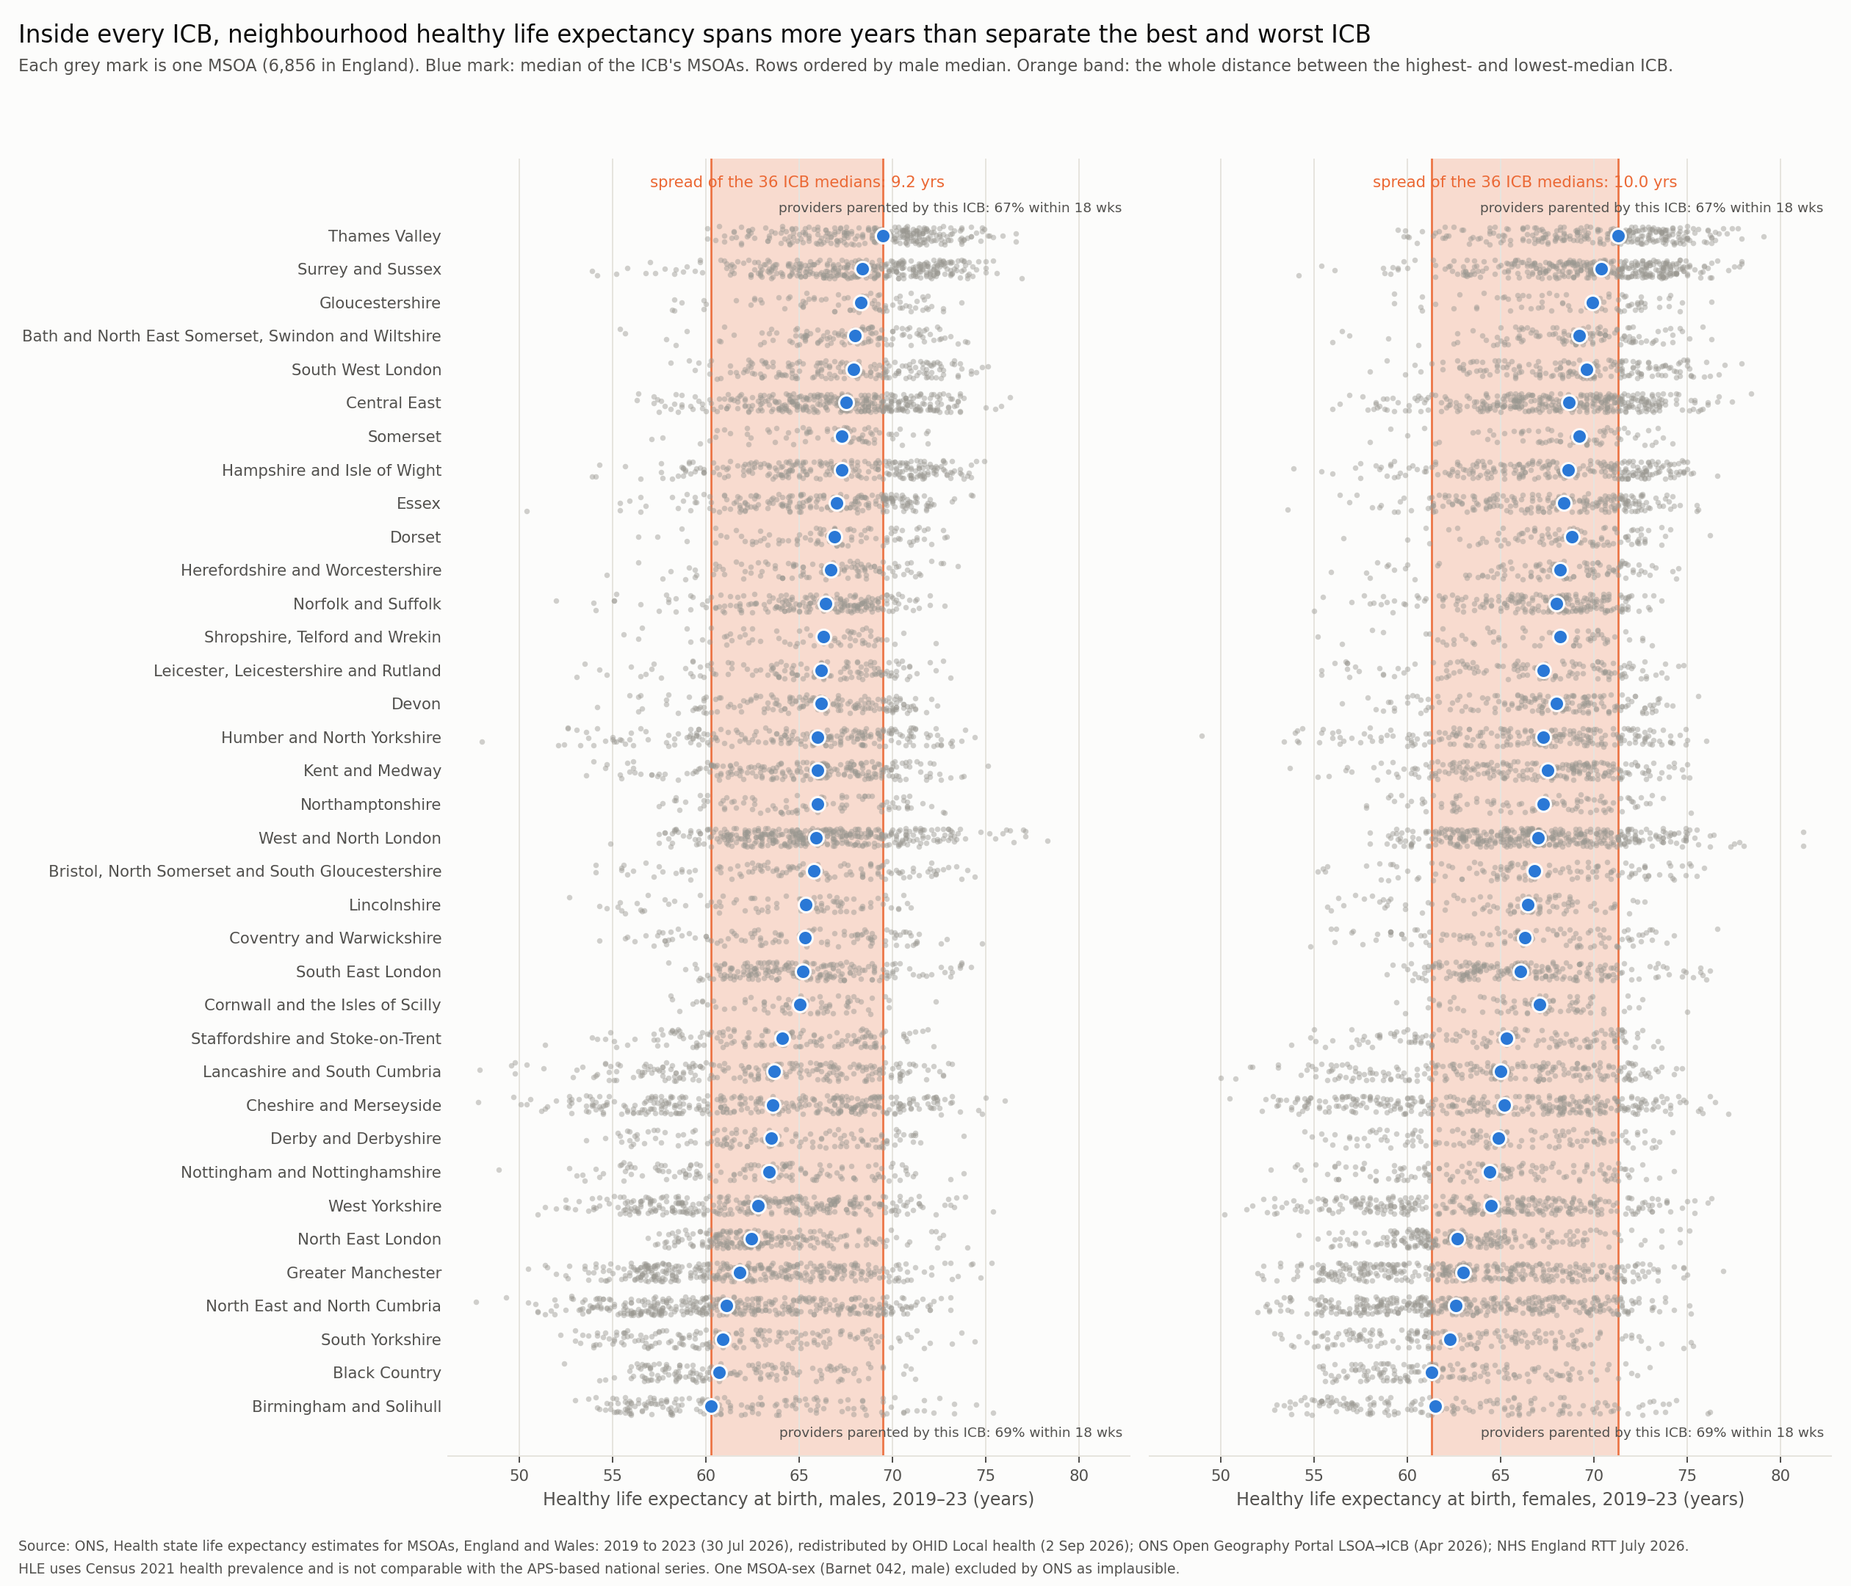
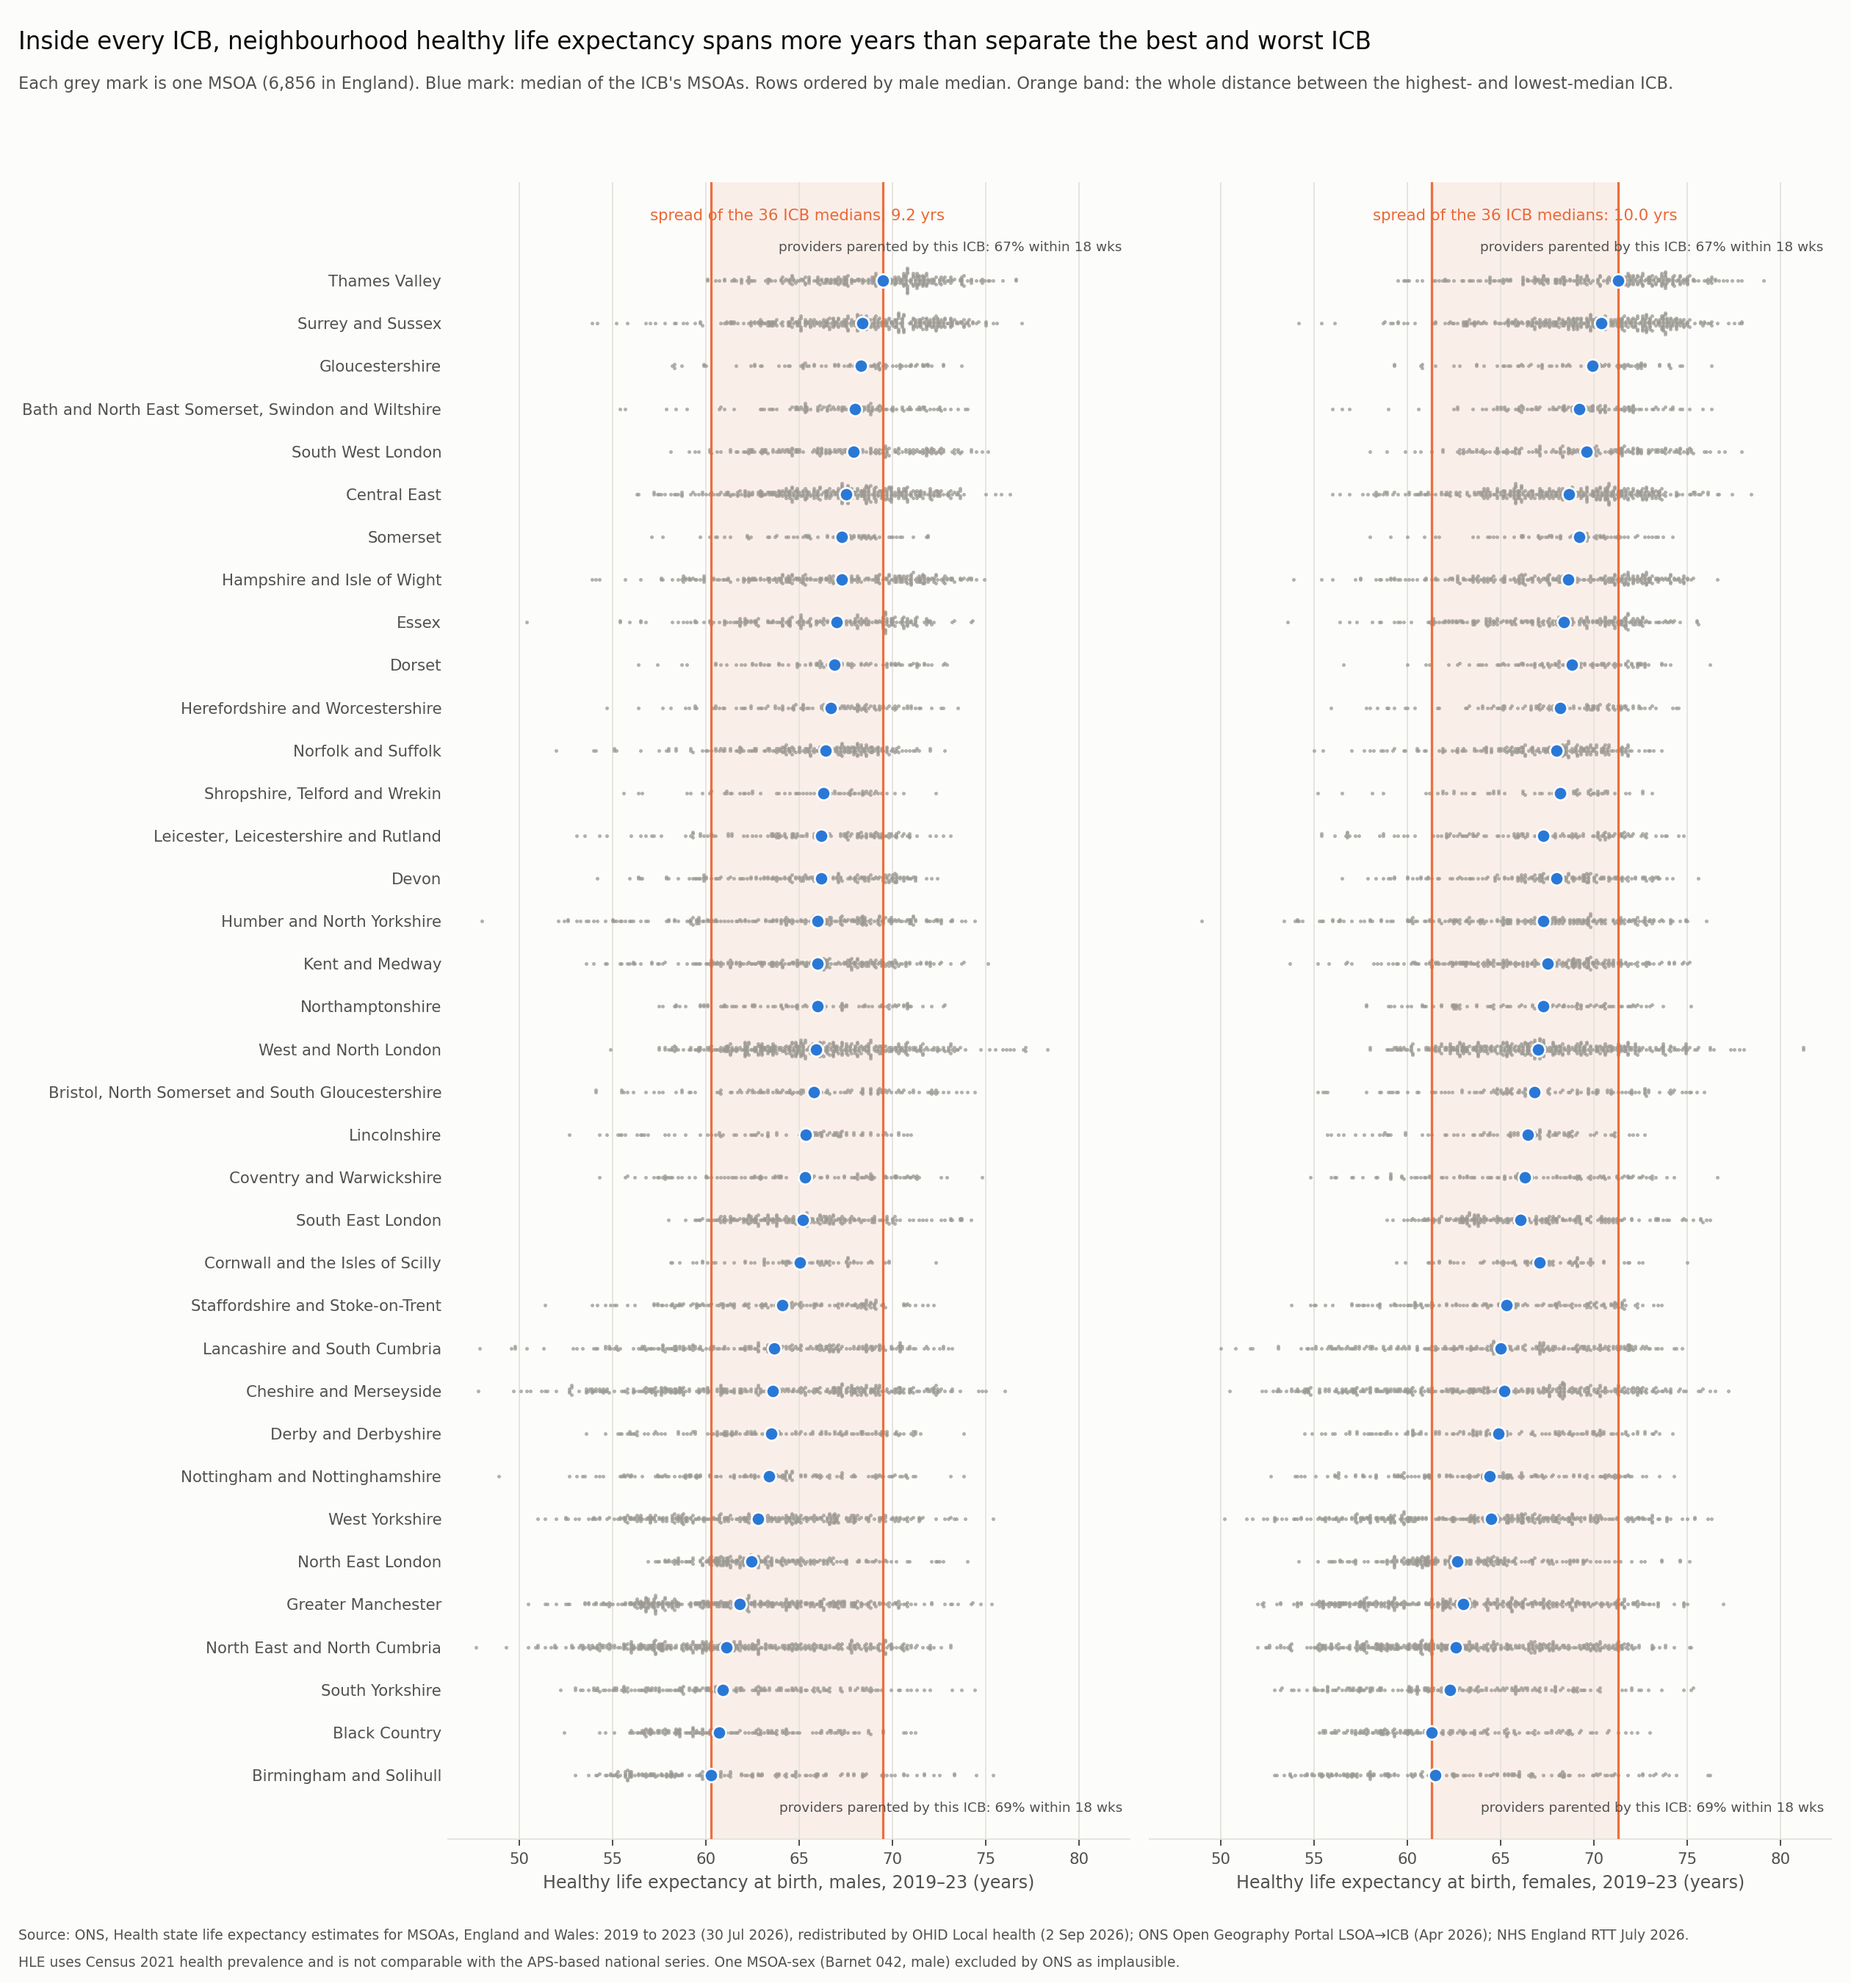
Chart: replace random jitter with a deterministic beeswarm
The strip plot looked grainy and the grain meant nothing. Each row carried up
to 400 marks, 7.5px across, scattered randomly over 34px of a 60px row - about
three times more ink than the row could hold, with vertical position carrying
no information at all. That reads as dirt.

Now each value is binned on the data's own grid (ONS publishes HLE to one
decimal, so a column is one distinct published value) and the points in a
column are dealt symmetrically outwards from the row's centre line. Vertical
thickness means local density and nothing else, so each row reads as a
distribution: dense core, thin tails, visible shape.

Also: figure taller (15in for 36 rows), markers smaller at higher opacity, and
the between-ICB band's fill dropped to 0.09 with its two edge rules carrying
it instead - the rules were doing the work and the fill was tinting every mark
inside it.

diff --git a/src/pipeline/10_gold_chart.py b/src/pipeline/10_gold_chart.py
@@ -37,6 +37,39 @@ ACCENT = "#2a78d6"   # series-1
 BAND = "#eb6834"     # series-2, used only for the between-ICB band
 
 
+def beeswarm_offsets(values: np.ndarray, bin_width: float = 0.1, max_spread: float = 0.34) -> np.ndarray:
+    """Deterministic vertical offsets so a row of neighbourhoods reads as a shape.
+
+    The first version of this chart scattered each row's MSOAs with random
+    jitter. With up to 400 marks in a row 60px tall, random placement stops
+    being a distribution and becomes grain - the plot looked dirty, and the
+    dirt carried no information. Here each value is binned on x and the points
+    in a bin are dealt symmetrically outwards from the row's centre line, so
+    vertical thickness means local density and nothing else. The bin width
+    matches the data's own grid - ONS publishes HLE to one decimal - so a
+    column is one distinct published value rather than an arbitrary bucket.
+    Where a bin is deeper than the row can hold, the column is compressed to
+    fit rather than bleeding into its neighbours.
+    """
+    order = np.argsort(values, kind="stable")
+    offsets = np.zeros(len(values))
+    bins = np.floor(values[order] / bin_width).astype(int)
+    start = 0
+    for b in range(len(bins)):
+        if b + 1 < len(bins) and bins[b + 1] == bins[start]:
+            continue
+        column = order[start:b + 1]
+        k = len(column)
+        # deal outwards: 0, +1, -1, +2, -2 ... then scale to fit the row
+        seq = np.zeros(k)
+        for i in range(k):
+            seq[i] = ((i + 1) // 2) * (1 if i % 2 else -1)
+        step = min(0.042, max_spread / max(abs(seq).max(), 1))
+        offsets[column] = seq * step
+        start = b + 1
+    return offsets
+
+
 def main() -> None:
     m = pd.read_parquet(GOLD_DIR / "01_spread" / "msoa_hle_icb.parquet").dropna(subset=["hle"])
     icb = pd.read_csv(GOLD_DIR / "02_crosswalk" / "A_icb_table.csv")
@@ -44,23 +77,22 @@ def main() -> None:
     ypos = {name: i for i, name in enumerate(order)}
     rtt = icb.set_index("icb_name_short").pct_within_18
 
-    fig, axes = plt.subplots(1, 2, figsize=(14, 12), sharey=True)
+    fig, axes = plt.subplots(1, 2, figsize=(14, 15), sharey=True)
     fig.patch.set_facecolor("#fcfcfb")
-    rng = np.random.default_rng(7)
     xlo, xhi = m.hle.min() - 1.5, m.hle.max() + 1.5
     for ax, sex in zip(axes, ["Male", "Female"]):
         d = m[m.sex == sex]
         med = d.groupby("icb_name_short").hle.median()
         lo, hi = med.min(), med.max()
-        ax.axvspan(lo, hi, color=BAND, alpha=0.22, lw=0, zorder=0)
+        ax.axvspan(lo, hi, color=BAND, alpha=0.09, lw=0, zorder=0)
         for edge in (lo, hi):
-            ax.axvline(edge, color=BAND, lw=1.1, alpha=0.9, zorder=1)
+            ax.axvline(edge, color=BAND, lw=1.3, alpha=0.95, zorder=3)
         ax.set_facecolor("#fcfcfb")
         for name, g in d.groupby("icb_name_short"):
             y = ypos[name]
-            jitter = rng.uniform(-0.28, 0.28, len(g))
-            ax.scatter(g.hle, y + jitter, s=9, color=MUTED, alpha=0.45, lw=0, zorder=2)
-            ax.scatter([med[name]], [y], s=64, color=ACCENT, edgecolor="#fcfcfb", lw=1.2, zorder=4)
+            ax.scatter(g.hle, y + beeswarm_offsets(g.hle.to_numpy()), s=4,
+                       color=MUTED, alpha=0.75, lw=0, zorder=2)
+            ax.scatter([med[name]], [y], s=54, color=ACCENT, edgecolor="#fcfcfb", lw=1.1, zorder=4)
         ax.set_yticks(range(len(order)))
         ax.set_yticklabels(order, fontsize=8.5, color=INK2)
         ax.set_xlim(xlo, xhi)
